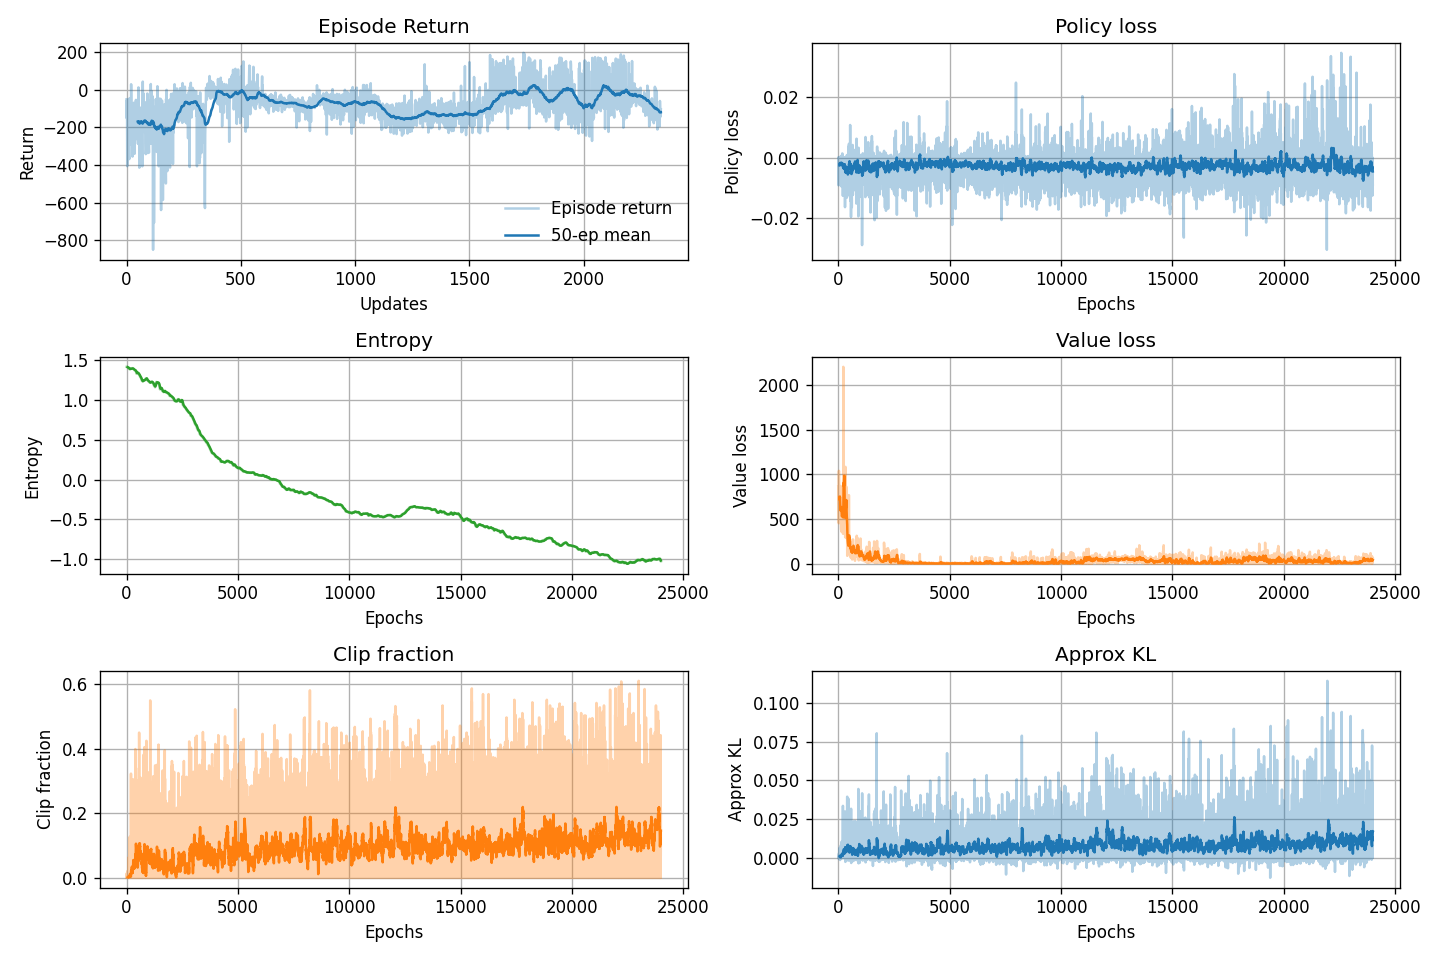
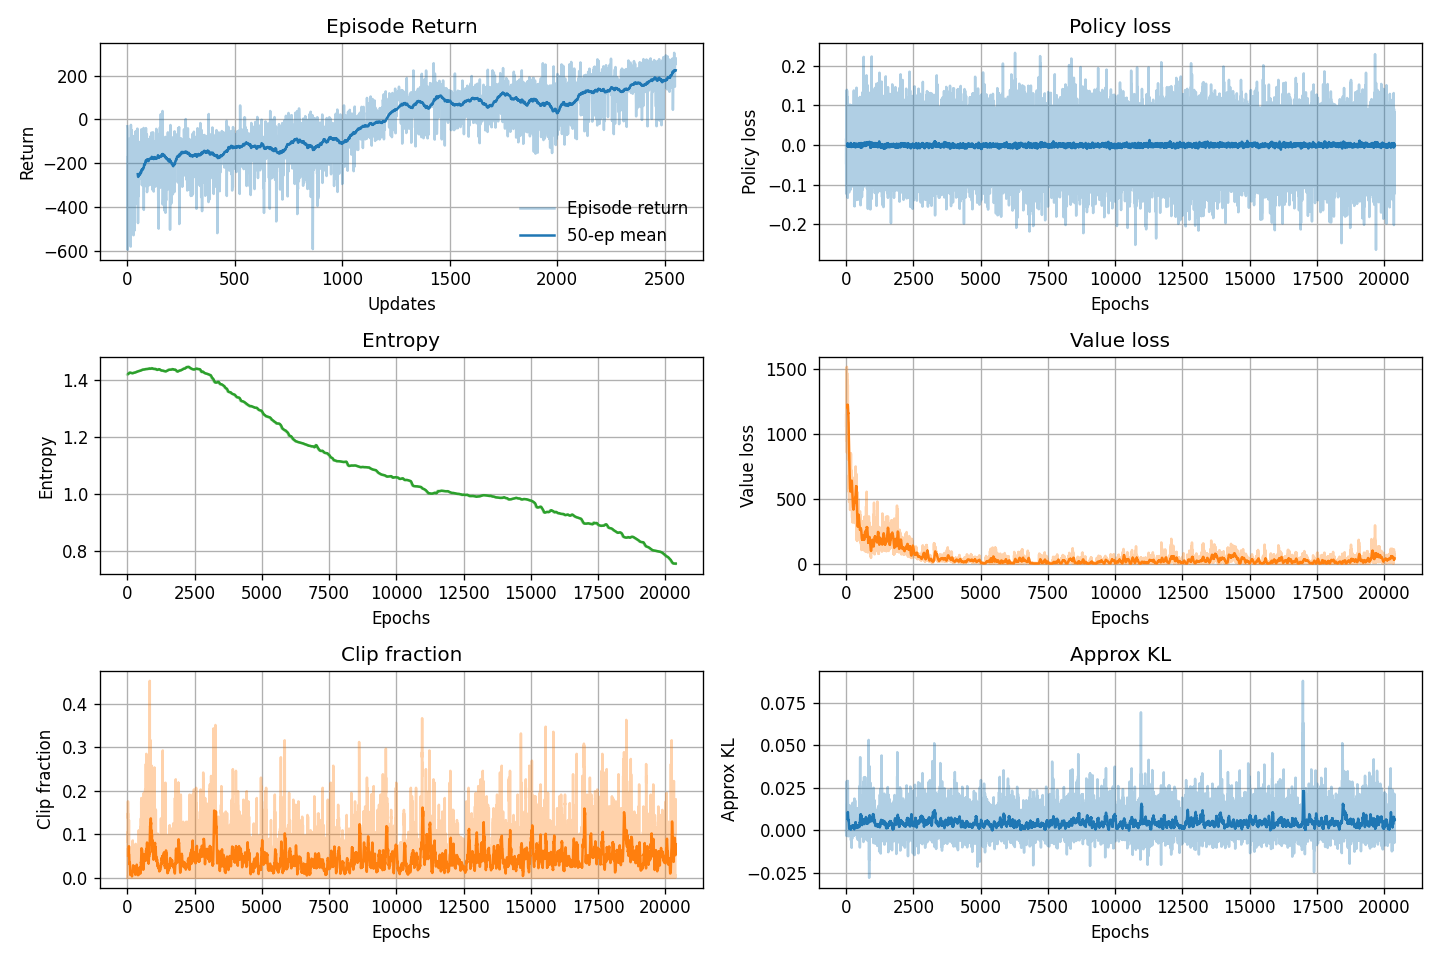
refactor: change from 1 gym environment to N vector environments + increase truck network size (add another hidden layer)

diff --git a/experiments/lunar_lander/train.py b/experiments/lunar_lander/train.py
@@ -3,7 +3,8 @@ import gymnasium as gym
 import matplotlib.pyplot as plt
 from tqdm import tqdm
 import os
-
+import numpy as np
+import random
 
 
 # Running mean/std for observation normalization
@@ -35,38 +36,50 @@ class RunningMeanStd:
     def normalize(self, x):
         x = torch.as_tensor(x, dtype=torch.float32)
         return (x - self.mean) / (torch.sqrt(self.var) + 1e-8)
-
+    
 
 # 1. Environment setup
+seed = 42
+random.seed(seed)
+np.random.seed(seed)
+torch.manual_seed(seed)
+torch.cuda.manual_seed_all(seed)
+n_envs = 8
+envs = gym.vector.SyncVectorEnv([lambda: gym.make(
+        "LunarLander-v3", 
+        continuous=True, 
+        enable_wind=False
+    ) for _ in range(n_envs)
+], autoreset_mode=gym.vector.AutoresetMode.NEXT_STEP)
+envs.action_space.seed(seed)
+observations, info = envs.reset(seed=seed)
+obs_rms = RunningMeanStd(shape=observations.shape[-1:])
 
-env = gym.make("LunarLander-v3", continuous=True, enable_wind=False)
-observations, info = env.reset()
-obs_rms = RunningMeanStd(shape=observations.shape)
+action_space_low = torch.tensor(envs.action_space.low, dtype=torch.float32)
+action_space_high = torch.tensor(envs.action_space.high, dtype=torch.float32)
 
 
-# 2. Define a simple policy network for the LunarLander environment
+# 2. Define a simple policy and value network for the LunarLander environment
 
 class PolicyValueModel(torch.nn.Module):
     def __init__(self, input_dim, output_dim, hidden_dim=64):
         super(PolicyValueModel, self).__init__()
         self.fc1 = torch.nn.Linear(input_dim, hidden_dim)
-        self.fc2 = torch.nn.Linear(hidden_dim, output_dim)
-
+        self.fc2 = torch.nn.Linear(hidden_dim, hidden_dim)
         self.policy_head = torch.nn.Linear(hidden_dim, output_dim)  # For mean of action distribution
-
-        self.log_std = torch.nn.Parameter(torch.zeros(output_dim))  # Learnable log standard deviation for continuous actions
-
         self.value_head = torch.nn.Linear(hidden_dim, 1)  # For value estimation
+        self.log_std = torch.nn.Parameter(torch.zeros(output_dim))  # Learnable log standard deviation for continuous actions
 
     def forward(self, x):
         x = torch.relu(self.fc1(x))
+        x = torch.relu(self.fc2(x))
         mu = self.policy_head(x)
         value = self.value_head(x)
         return mu, self.log_std, value
     
 
-action_dim_space = env.action_space.shape[0]
-observation_dim_space = env.observation_space.shape[0]
+action_dim_space = envs.action_space.shape[-1]
+observation_dim_space = envs.observation_space.shape[-1]
 print(f"Action space dimension: {action_dim_space}, Observation space dimension: {observation_dim_space}")
 policy_value_model = PolicyValueModel(input_dim=observation_dim_space, output_dim=action_dim_space)
 
@@ -75,7 +88,7 @@ policy_value_model = PolicyValueModel(input_dim=observation_dim_space, output_di
 
 optimizer = torch.optim.Adam(
     list(policy_value_model.parameters()), 
-    lr=1e-3
+    lr=3e-4
 )
 gamma = 0.99
 
@@ -93,28 +106,39 @@ def compute_clipped_ppo_policy_loss(old_log_probs, new_log_probs, advantages, ep
 
 
 def compute_gae(rewards, values, dones, next_value, gamma=0.99, lam=0.95):
-    T = len(rewards)
-    adv = torch.zeros(T)
-    last_gae = 0
+    """
+    rewards, values, dones: shape (T, n_envs)
+    next_value: shape (n_envs,) or scalar
+    """
+    T, n_envs = rewards.shape
+    adv = torch.zeros_like(rewards, dtype=torch.float32)
+    last_gae = torch.zeros((n_envs,), dtype=torch.float32)
+
     for t in reversed(range(T)):
+        next_val = next_value if t == T - 1 else values[t + 1]
         mask = 1.0 - dones[t]
-        delta = rewards[t] + gamma * (next_value if t==T-1 else values[t+1]) * mask - values[t]
+        delta = rewards[t] + gamma * next_val * mask - values[t]
         last_gae = delta + gamma * lam * mask * last_gae
         adv[t] = last_gae
+
     returns = adv + values
     return adv, returns
 
 
 # 4. Training loop
 
-num_updates = 300
-batch_size = 512
-ppo_epochs = 8
+num_updates = 1000
+num_rollouts_per_env = 256
+num_rollouts = num_rollouts_per_env * n_envs
+batch_size = num_rollouts_per_env
+ppo_epochs = 4
 clip_epsilon = 0.2
+num_optimizer_steps = (num_rollouts + batch_size - 1) // batch_size
+
 
 # Metrics
+episode_return_rollout = torch.zeros(n_envs, dtype=torch.float32)
 episode_returns = []
-episode_return = 0.0
 policy_losses = []
 value_losses = []
 entropies = []
@@ -124,105 +148,126 @@ clip_fractions = []
 for update in tqdm(range(num_updates), desc="Training PPO"):
 
     # Collect trajectories
-    observations_rollout = []
-    log_probs_rollout = []
-    rewards_rollout = []
-    values_rollout = []
-    action_rollout = []
-    dones_rollout = []
+    observations_rollout = torch.empty((num_rollouts_per_env, n_envs, observation_dim_space))
+    log_probs_rollout = torch.empty((num_rollouts_per_env, n_envs))
+    rewards_rollout = torch.empty((num_rollouts_per_env, n_envs))
+    values_rollout = torch.empty((num_rollouts_per_env, n_envs))
+    action_rollout = torch.empty((num_rollouts_per_env, n_envs, action_dim_space))
+    dones_rollout = torch.empty((num_rollouts_per_env, n_envs))
 
     with torch.no_grad():
-        for _ in range(batch_size):
+
+        for rollout_id in range(num_rollouts_per_env):
 
             # 1. get actions from the policy and value estimates for the current observations
-            obs_rms.update(observations[None, :])
+            obs_rms.update(observations)
             obs_tensor = obs_rms.normalize(observations)
             mu, log_std, value = policy_value_model(obs_tensor)
             std = torch.exp(log_std)
 
             action_dist = torch.distributions.Normal(mu, std)
-            action = action_dist.sample()
-            log_prob = action_dist.log_prob(action).sum(-1)  # Sum log probs for multi-dimensional actions
-            action_clipped = torch.clamp(
-                action,
-                torch.tensor(env.action_space.low),
-                torch.tensor(env.action_space.high),
-            )
-            values_rollout.append(value)
+            pre_tanh_action = action_dist.rsample()
+            tanh_action = torch.tanh(pre_tanh_action)
+            action_scaled = action_space_low + (tanh_action + 1.0) * 0.5 * (action_space_high - action_space_low)
 
-            # 3. get next observations and rewards from the environment
-            observations, reward, done, truncated, info = env.step(action_clipped.numpy())
+            # Tanh-squash correction
+            log_prob = action_dist.log_prob(pre_tanh_action).sum(-1)
+            log_prob -= torch.log(1.0 - tanh_action.pow(2) + 1e-6).sum(-1)
+
+            # 2. get next observations and rewards from the environment
+            observations, reward, done, truncated, info = envs.step(action_scaled.numpy())
+            termination_flag = torch.from_numpy(done | truncated)
+
+            # 3. logging
+            values_rollout[rollout_id] = value.squeeze(-1)
+            observations_rollout[rollout_id] = obs_tensor
+            log_probs_rollout[rollout_id] = log_prob
+            rewards_rollout[rollout_id] = torch.from_numpy(reward)
+            action_rollout[rollout_id] = pre_tanh_action
+            dones_rollout[rollout_id] = termination_flag
+            episode_return_rollout += torch.from_numpy(reward)
             
-            # 4. logging
-            observations_rollout.append(obs_tensor)
-            log_probs_rollout.append(log_prob)
-            rewards_rollout.append(reward)
-            action_rollout.append(action)
-            dones_rollout.append(done or truncated)
-            episode_return += reward
-
-            if done or truncated:
-                episode_returns.append(episode_return)
-                episode_return = 0.0
-                observations, info = env.reset()
+            if termination_flag.any():
+                terminated_ids = torch.where(termination_flag)[0]
+                episode_returns.append(episode_return_rollout[terminated_ids].mean().item())
+                for idx in terminated_ids.tolist():
+                    episode_return_rollout[idx] = 0.0
+                
 
     # Compute advantages
     with torch.no_grad():
-        if len(dones_rollout) > 0 and not dones_rollout[-1]:
-            next_obs_tensor = obs_rms.normalize(observations)
-            _, _, next_value = policy_value_model(next_obs_tensor)
-            next_value = next_value.item()
-        else:
-            next_value = 0.0
+        # Always compute next_value for each env; done handling is managed by the mask in GAE.
+        next_obs_tensor = obs_rms.normalize(observations)
+        _, _, next_value = policy_value_model(next_obs_tensor)
+        next_value = next_value.squeeze(-1)
 
     advantages, returns = compute_gae(
         rewards_rollout,
-        values=torch.stack(values_rollout),
+        values=values_rollout,
         dones=dones_rollout,
         next_value=next_value,
         gamma=gamma,
     )
+    # Reshape rollouts to (num_rollouts*n_envs, ...) for easier batching
     advantages = (advantages - advantages.mean()) / (advantages.std(unbiased=False) + 1e-8)
-    old_log_probs = torch.stack(log_probs_rollout)
-    action_rollout = torch.stack(action_rollout)
-    observations_rollout = torch.stack(observations_rollout)
-
+    rewards_rollout = rewards_rollout.view(num_rollouts)
+    values_rollout = values_rollout.view(num_rollouts)
+    dones_rollout = dones_rollout.view(num_rollouts)
+    advantages = advantages.view(num_rollouts)
+    old_log_probs = log_probs_rollout.view(-1)
+    action_rollout = action_rollout.view(-1, action_dim_space)
+    observations_rollout = observations_rollout.view(-1, observation_dim_space)
+    returns = returns.view(num_rollouts)
+    
+    # PPO update
     for epoch in range(ppo_epochs):
+        inds = torch.randperm(num_rollouts)
+        for id in range(0, num_rollouts, batch_size):
 
-        # get policy outputs and values for the current batch of observations
-        logits, log_std, values = policy_value_model(observations_rollout)
-        std = torch.exp(log_std)
-        action_dist = torch.distributions.Normal(logits, std)
-        new_log_probs = action_dist.log_prob(action_rollout).sum(-1)  # Sum log probs for multi-dimensional actions
+            # get batches of data
+            mb_inds = inds[id : id + batch_size]
+            obs_batch = observations_rollout[mb_inds]
+            action_batch = action_rollout[mb_inds]
+            old_log_probs_batch = old_log_probs[mb_inds]
+            advantages_batch = advantages[mb_inds]
+            returns_batch = returns[mb_inds]
 
-        # Loss computation
-        ratio = torch.exp(new_log_probs - old_log_probs)
-        clipped_ratio = torch.clamp(ratio, 1 - clip_epsilon, 1 + clip_epsilon)
-        policy_loss = -torch.min(ratio * advantages, clipped_ratio * advantages).mean()
-        value_loss = 0.5 * (returns - values.squeeze(-1)).pow(2).mean()
-        entropy_bonus = action_dist.entropy().mean()
-        loss = compute_ppo_loss(
-            policy_loss, 
-            value_loss, 
-            entropy_bonus, 
-            value_loss_coef=0.5, 
-            entropy_coef=0.0001
-        )
+            # get policy outputs and values for the current batch of observations
+            logits, log_std, values = policy_value_model(obs_batch)
+            std = torch.exp(log_std)
+            action_dist = torch.distributions.Normal(logits, std)
+            new_log_probs = action_dist.log_prob(action_batch).sum(-1)
+            tanh_action = torch.tanh(action_batch)
+            new_log_probs -= torch.log(1.0 - tanh_action.pow(2) + 1e-6).sum(-1)
 
-        # Metrics
-        approx_kl = (old_log_probs - new_log_probs).mean()
-        clip_frac = ((ratio > (1 + clip_epsilon)) | (ratio < (1 - clip_epsilon))).float().mean()
-        policy_losses.append(policy_loss.item())
-        value_losses.append(value_loss.item())
-        entropies.append(entropy_bonus.item())
-        approx_kls.append(approx_kl.item())
-        clip_fractions.append(clip_frac.item())
+            # Loss computation
+            ratio = torch.exp(new_log_probs - old_log_probs_batch)
+            clipped_ratio = torch.clamp(ratio, 1 - clip_epsilon, 1 + clip_epsilon)
+            policy_loss = -torch.min(ratio * advantages_batch, clipped_ratio * advantages_batch).mean()
+            value_loss = 0.5 * (returns_batch - values.squeeze(-1)).pow(2).mean()
+            entropy_bonus = action_dist.entropy().mean()
+            loss = compute_ppo_loss(
+                policy_loss, 
+                value_loss, 
+                entropy_bonus, 
+                value_loss_coef=0.5, 
+                entropy_coef=0.01
+            )
 
-        # Update policy
-        optimizer.zero_grad()
-        loss.backward()
-        torch.nn.utils.clip_grad_norm_(list(policy_value_model.parameters()), max_norm=0.5)  # Gradient clipping
-        optimizer.step()
+            # Logging metrics
+            approx_kl = (old_log_probs_batch - new_log_probs).mean()
+            clip_frac = ((ratio > (1 + clip_epsilon)) | (ratio < (1 - clip_epsilon))).float().mean()
+            policy_losses.append(policy_loss.item())
+            value_losses.append(value_loss.item())
+            entropies.append(entropy_bonus.item())
+            approx_kls.append(approx_kl.item())
+            clip_fractions.append(clip_frac.item())
+
+            # Update policy
+            optimizer.zero_grad()
+            loss.backward()
+            torch.nn.utils.clip_grad_norm_(list(policy_value_model.parameters()), max_norm=0.5)  # Gradient clipping
+            optimizer.step()
 
     # Early stopping if solved
     if len(episode_returns) >= 100:
